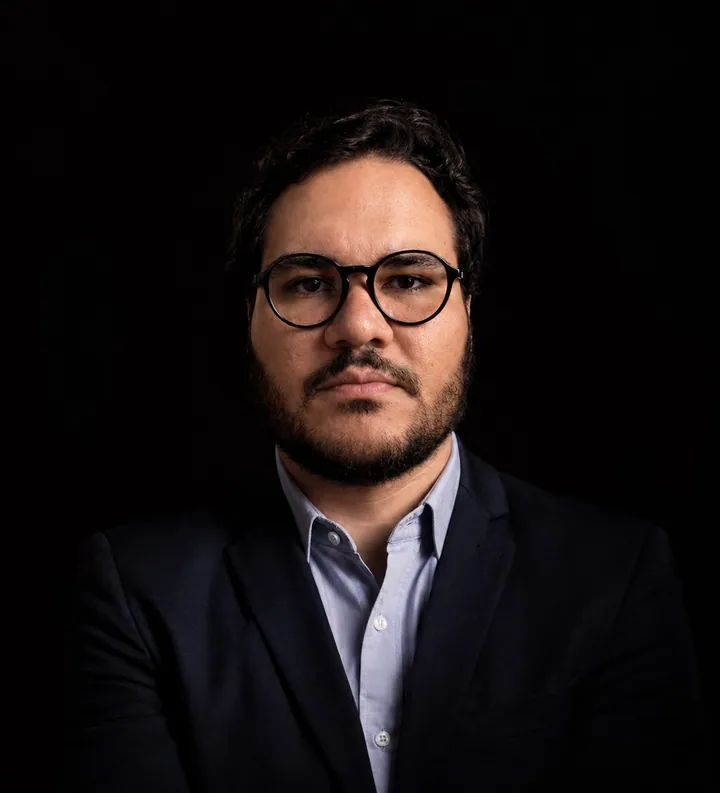
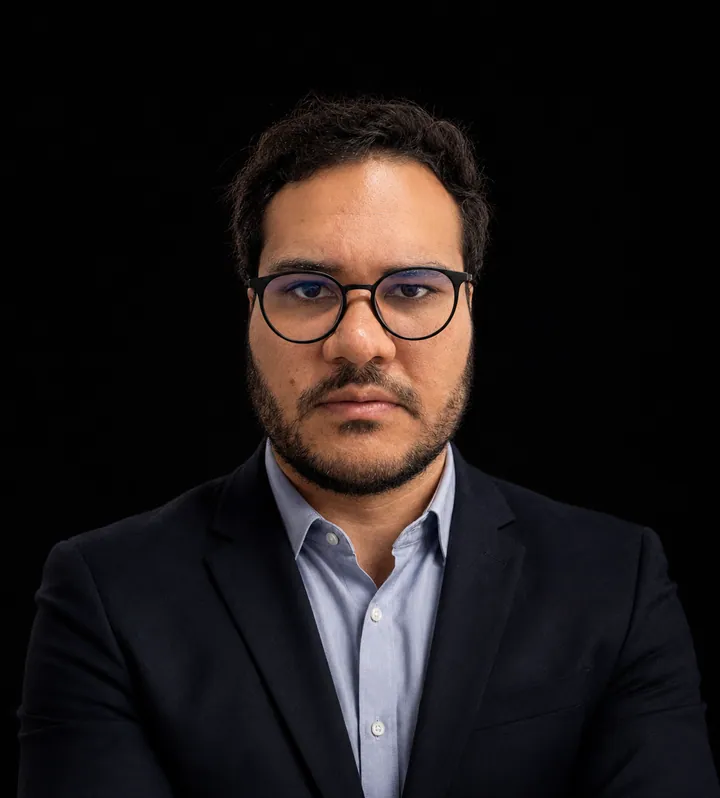
chore: atualiza foto de perfil do Luiz

diff --git a/lib/assets.ts b/lib/assets.ts
@@ -37,7 +37,7 @@ export const ASSETS = {
     luiz: {
       src: '/assets/identidade/perfil-luiz.webp',
       width: 720,
-      height: 793,
+      height: 798,
     },
     karina: {
       src: '/assets/identidade/perfil-karina.webp',
